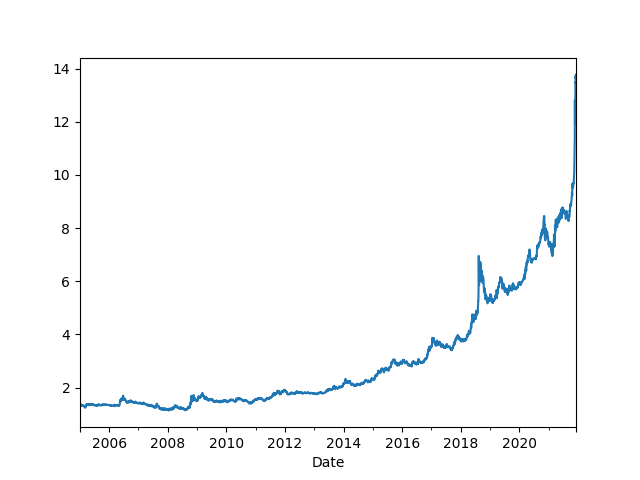
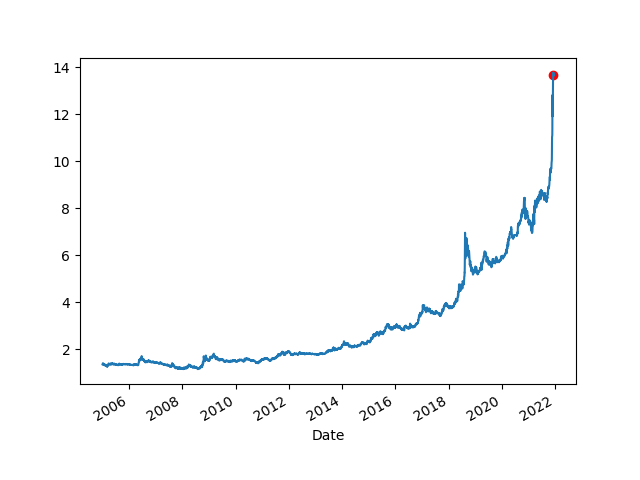
-

diff --git a/tr/2019/05/stats.md b/tr/2019/05/stats.md
@@ -38,6 +38,7 @@ url = base_fin_url + "/USDTRY=X?period1=" + str(start) + "&period2=" + str(end) 
 r = urllib2.urlopen(url).read()
 file = io.BytesIO(r)
 df = pd.read_csv(file,index_col='Date',parse_dates=True)['Adj Close']
+plt.plot(df.tail(1).index, df.tail(1),'ro')
 df.plot()
 print (df.tail(5))
 plt.savefig('try-dollar.png')
@@ -49,7 +50,7 @@ Date
 2021-12-03    13.71710
 2021-12-06    13.63205
 2021-12-07    13.78315
-2021-12-08    13.68880
+2021-12-08    13.65980
 Name: Adj Close, dtype: float64
 ```
 
